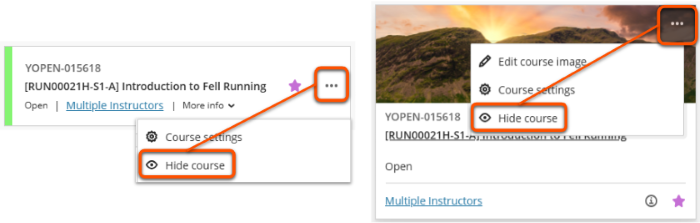
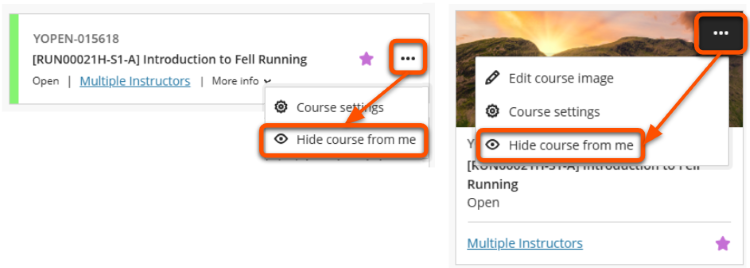
Courses list - .112 update

Changed region(s): [[0.0, 0.0, 1.0, 0.9955], [0.54, 0.861, 0.78, 0.9417], [0.54, 0.6726, 0.69, 0.7803]]

diff --git a/docs/ultra/courses-list.md b/docs/ultra/courses-list.md
@@ -100,30 +100,28 @@ Some site properties can be edited by clicking the **three dots icon**. In grid 
 
 For more details, see our [Course Image guide](../ultra/course-image.md).
 
-### Make course open/private
+### Course access
 
 !!! Tip
 
-    This setting controls student access to a site.
+    Open or close a site to controls student access.
 
 1. Click the **three dots icon** for the relevant site, then click **Course Settings**.
 </br>![decorative](images/courses-list-course-settings.png)
-2. Set site access:
-    - *To make a course private* (ie. students cannot access it): turn *on* the **Close Course** toggle.
-    - *To make a course open* (ie. students can access it): turn *off* the **Close Course** toggle.
+2. Under *Course Access*, select **Open** (students can access) or **Closed** (students can't access).
 
-For more details, see our [Site Availability guide](../ultra/course-access.md).
+For more details, see our [guide to updating course access](../ultra/course-access.md#update-course-status).
 
 ### Hide/show sites from your own view
 
 !!! Tip
 
-    This setting hides a site from the user's own default view of the Courses list. It **does not change** their enrollment, or affect site visibility or access for other users. 
+    Hides a site your own view of the Courses list. This **does not change** any enrollments or course access for other users. 
 
-Staff can hide sites from their own view of the Courses list and any search or filter results (and show them again). For example, this might be useful for sites that you are enrolled on but rarely need to visit.
+This could help you streamline your courses list if you are enrolled on many sites that you rarely need to visit.
 
 - To hide a course *(from your own view)*: 
-</br>Click the **three dots icon** for the relevant site, then click **Hide course**. The course is removed from your main Courses list.
+</br>Click the **three dots icon** for the relevant site, then click **Hide course from me**. The course is removed from your main Courses list.
 </br>![decorative](images/courses-list-hide.png)
 - To show a course again *(in your own view)*: 
 </br>On the *Filters* drop-down menu, select **Hidden from me**. Click the **three dots icon** for the relevant site, then click **Show course**. It will appear on your main Courses list again.

diff --git a/docs/ultra/course-access.md b/docs/ultra/course-access.md
@@ -52,7 +52,7 @@ Current course status is shown in numerous locations:
 
 ## Course settings not in use
 
-The Course Access panel contains some additional settings that are not used to manage site access at the University of York.
+The Course Access panel contains some additional settings that are not used to manage site access at the University of York.cd documnets
 
 ### Course Duration
 
